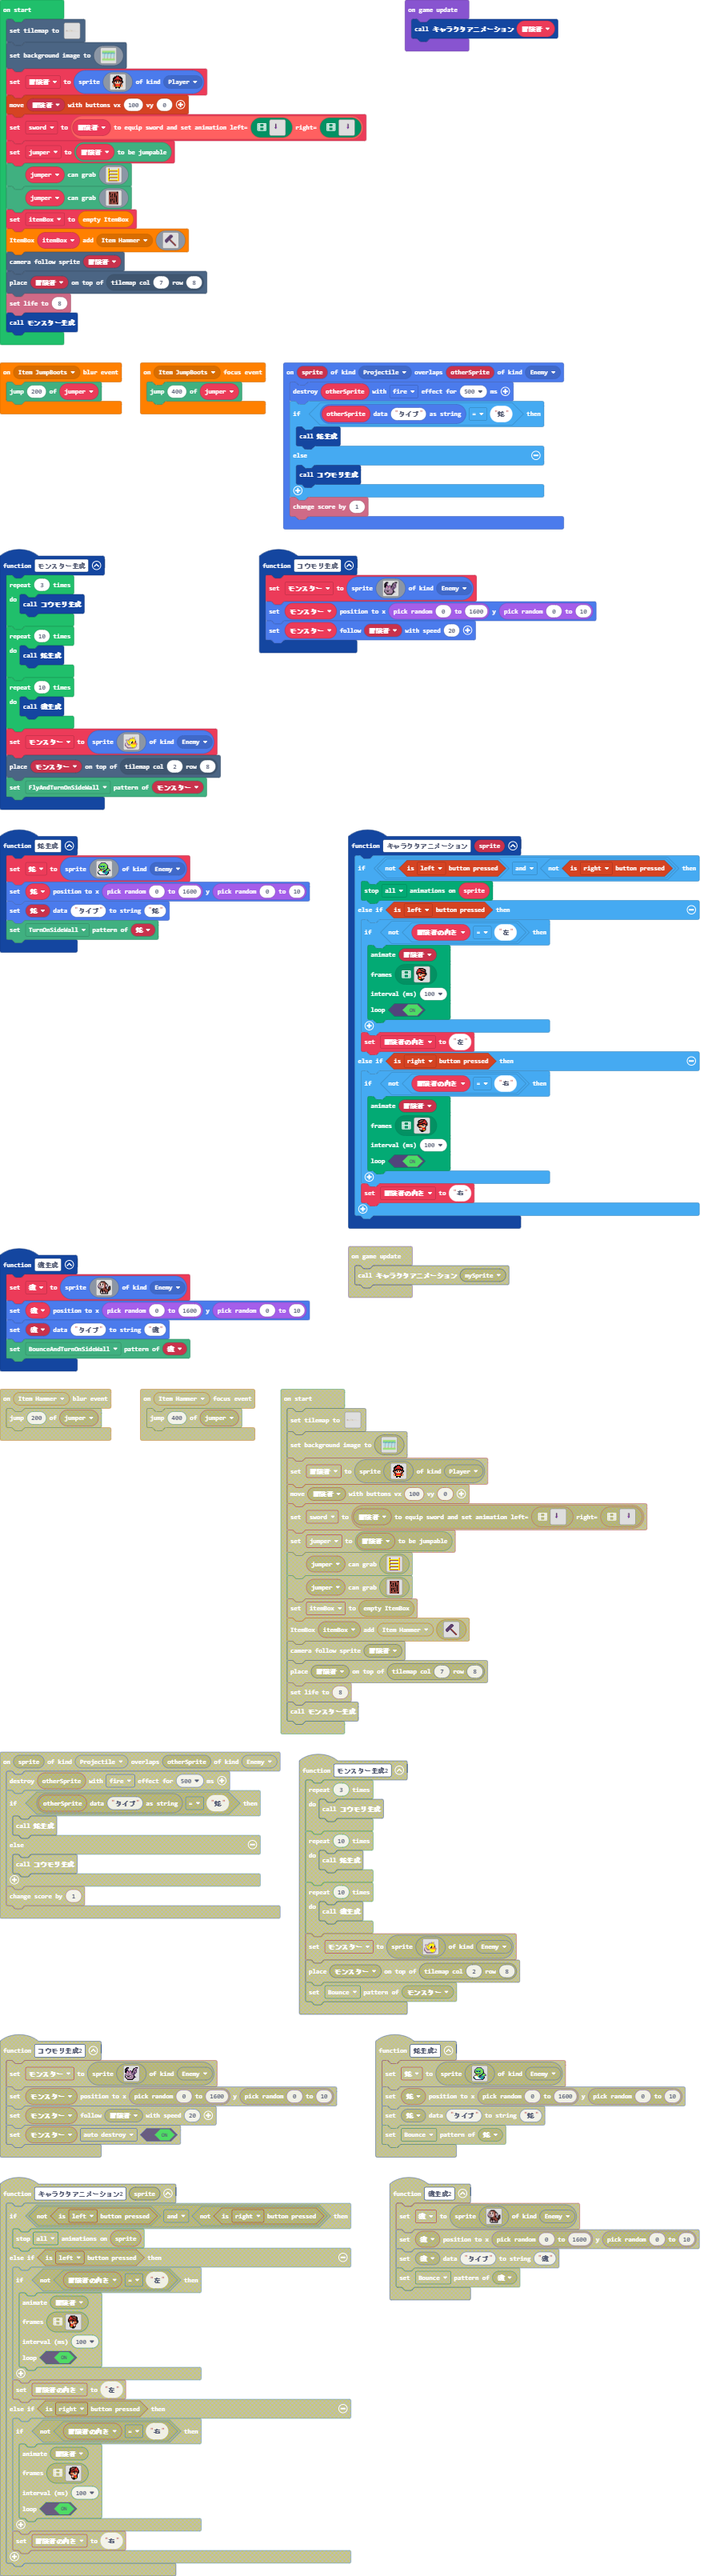
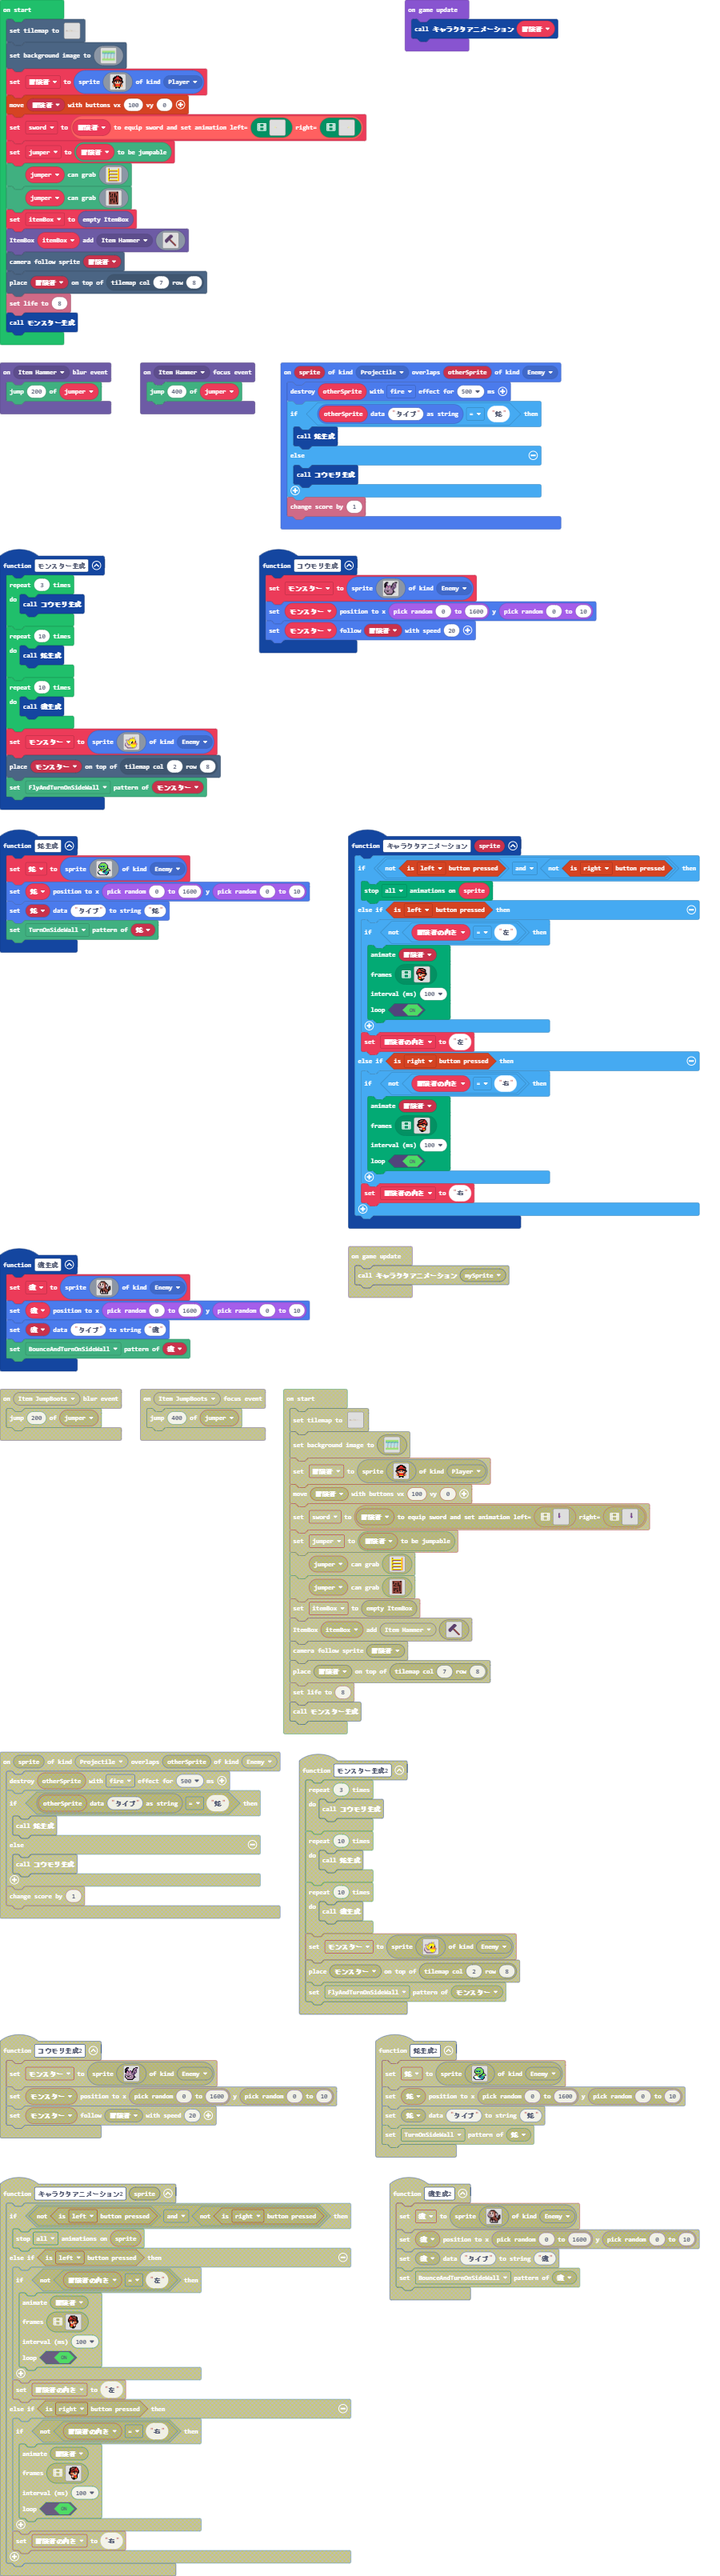
Update pxt.json, main.blocks, main.ts, tilemap.g.jres, tilemap.g.ts, images.g.jres, images.g.ts, weapons.ts

diff --git a/images.g.ts b/images.g.ts
@@ -188,6 +188,76 @@ c c c c c d d d e e f c . f e f
 ................................
 ................................
 `];
+            case "whip_right_anim":
+            case "anim3":return [img`
+................................................................................................
+................................................................................................
+................................................................................................
+...........................................................555555555............................
+...........................................................555555555............................
+..................................................................55............................
+..................................................................55............................
+..................................................................55............................
+..................................................................55............................
+....................................................eeeeeee555555555............................
+....................................................eeeeeee555555555............................
+................................................................................................
+................................................................................................
+................................................................................................
+................................................................................................
+................................................................................................
+`, img`
+................................................................................................
+................................................................................................
+................................................................................................
+.....................................................................555555555..................
+.....................................................................555555555..................
+............................................................................55..................
+............................................................................55..................
+............................................................................55..................
+............................................................................55..................
+....................................................eeeeeee5555555555555555555..................
+....................................................eeeeeee5555555555555555555..................
+................................................................................................
+................................................................................................
+................................................................................................
+................................................................................................
+................................................................................................
+`, img`
+................................................................................................
+................................................................................................
+................................................................................................
+..............................................................................555555555.........
+..............................................................................555555555.........
+.....................................................................................55.........
+.....................................................................................55.........
+.....................................................................................55.........
+.....................................................................................55.........
+....................................................eeeeeee5555555555555555555555555555.........
+....................................................eeeeeee5555555555555555555555555555.........
+................................................................................................
+................................................................................................
+................................................................................................
+................................................................................................
+................................................................................................
+`, img`
+................................................................................................
+................................................................................................
+................................................................................................
+................................................................................................
+................................................................................................
+................................................................................................
+................................................................................................
+................................................................................................
+................................................................................................
+....................................................eeeeeee5555555555555555555555555555555555555
+....................................................eeeeeee5555555555555555555555555555555555555
+................................................................................................
+................................................................................................
+................................................................................................
+................................................................................................
+................................................................................................
+`];
             case "sword_left_anim":
             case "anim2":return [img`
 ...........cb...................
@@ -252,6 +322,76 @@ cccccccccaaff...................
 ................................
 ................................
 ................................
+`];
+            case "whip_left_anim":
+            case "anim4":return [img`
+................................................................................................
+................................................................................................
+................................................................................................
+............................555555555...........................................................
+............................555555555...........................................................
+............................55..................................................................
+............................55..................................................................
+............................55..................................................................
+............................55..................................................................
+............................555555555eeeeeee....................................................
+............................555555555eeeeeee....................................................
+................................................................................................
+................................................................................................
+................................................................................................
+................................................................................................
+................................................................................................
+`, img`
+................................................................................................
+................................................................................................
+................................................................................................
+..................555555555.....................................................................
+..................555555555.....................................................................
+..................55............................................................................
+..................55............................................................................
+..................55............................................................................
+..................55............................................................................
+..................5555555555555555555eeeeeee....................................................
+..................5555555555555555555eeeeeee....................................................
+................................................................................................
+................................................................................................
+................................................................................................
+................................................................................................
+................................................................................................
+`, img`
+................................................................................................
+................................................................................................
+................................................................................................
+.........555555555..............................................................................
+.........555555555..............................................................................
+.........55.....................................................................................
+.........55.....................................................................................
+.........55.....................................................................................
+.........55.....................................................................................
+.........5555555555555555555555555555eeeeeee....................................................
+.........5555555555555555555555555555eeeeeee....................................................
+................................................................................................
+................................................................................................
+................................................................................................
+................................................................................................
+................................................................................................
+`, img`
+................................................................................................
+................................................................................................
+................................................................................................
+................................................................................................
+................................................................................................
+................................................................................................
+................................................................................................
+................................................................................................
+................................................................................................
+5555555555555555555555555555555555555eeeeeee....................................................
+5555555555555555555555555555555555555eeeeeee....................................................
+................................................................................................
+................................................................................................
+................................................................................................
+................................................................................................
+................................................................................................
 `];
         }
         return null;

diff --git a/weapons.ts b/weapons.ts
@@ -34,11 +34,34 @@ namespace weapons.sword {
         _sword: Sprite;
         _wielding: boolean;
         _leftAnim: Image[];
+        _leftSpan: number;
         _rightAnim: Image[];
+        _rightSpan: number;
 
         constructor(target: Sprite) {
             this._target = target;
             this._sword = null;
+        }
+
+
+        _isWallAt(col:number, row:number) : boolean {
+            // let loc : tiles.Location = tiles.getTileLocation(x >> 4, y >> 4);
+            // const tm = game.currentScene().tileMap;
+            // return tm ? tm.isObstacle(loc.col, loc.row) : false;
+            const tm = game.currentScene().tileMap;
+            return tm ? tm.isObstacle(col, row) : false;
+        }
+
+        _spanForHitWall(signOfDirection: number, maxSpan: number) : number {
+            let length;
+            // control.assert(false, 0);
+            let col = this._target.x >> 4; 
+            let row = this._target.y >> 4; 
+            for(let span=0; span<maxSpan; span++) {
+                if( this._isWallAt(col + span * signOfDirection, row))
+                    return span;
+            }
+            return maxSpan;
         }
 
         //% block="wield $this(sword) for $direction"
@@ -50,15 +73,27 @@ namespace weapons.sword {
             this._sword = _createEmptySprite_16x16();
             this._sword.setPosition(this._target.x, this._target.y);
 
+            // let col = this._target.x >> 4; 
+            // let row = this._target.y >> 4; 
+            // let n=0;
+            // for(; n<this._rightLength; n++) {
+            //     if( this._isWallAt(col + n, row))
+            //         break;
+            // }
+            // console.log("ken n:" + n);
+            let interval = 90;
+            let span : number = 0;
             switch(direction) {
             case Direction.Left:
-                animation.runImageAnimation(this._sword, this._leftAnim, 100, false);
+                animation.runImageAnimation(this._sword, this._leftAnim, interval, false);
+                span = this._spanForHitWall(-1, this._leftSpan);
                 break;
             case Direction.Right:
-                animation.runImageAnimation(this._sword, this._rightAnim, 100, false);
+                animation.runImageAnimation(this._sword, this._rightAnim, interval, false);
+                span = this._spanForHitWall(1, this._rightSpan);
                 break;
             }
-            timer.after(300, function () {
+            timer.after(span*interval, function () {
                 this._sword.destroy();
                 this._sword = null;
             });
@@ -68,7 +103,9 @@ namespace weapons.sword {
         //% group="Sword"
         setAnimation(leftAnim: Image[], rightAnim: Image[]) {
             this._leftAnim = leftAnim;
+            this._leftSpan = leftAnim[0].width >> 4;
             this._rightAnim = rightAnim;
+            this._rightSpan = rightAnim[0].width >> 4;
         }
 
         _run() {

diff --git a/main.ts b/main.ts
@@ -86,6 +86,9 @@ itembox.util.onEvent(ItemKind.Sword, function () {
         sword.wield(weapons.sword.Direction.Right)
     }
 })
+itembox.util.onFocus(ItemKind.JumpBoots, function () {
+    jumper.setSpeed(400)
+})
 scene.onOverlapTile(SpriteKind.Player, assets.tile`hand_gun`, function (sprite, location) {
     tiles.setTileAt(location, assets.tile`transparency16`)
     itemBox.add(ItemKind.Gun, assets.tile`hand_gun`)
@@ -164,8 +167,8 @@ function コウモリ生成 () {
 controller.B.onEvent(ControllerButtonEvent.Released, function () {
     controller.moveSprite(冒険者, 100, 0)
 })
-itembox.util.onFocus(ItemKind.JumpBoots, function () {
-    jumper.setSpeed(400)
+itembox.util.onBlur(ItemKind.JumpBoots, function () {
+    jumper.setSpeed(200)
 })
 itembox.util.onEvent(ItemKind.Wall, function () {
     if (controller.up.isPressed()) {
@@ -354,9 +357,6 @@ function キャラクタアニメーション (sprite: Sprite) {
         冒険者の向き = "右"
     }
 }
-itembox.util.onBlur(ItemKind.JumpBoots, function () {
-    jumper.setSpeed(200)
-})
 sprites.onOverlap(SpriteKind.Projectile, SpriteKind.Enemy, function (sprite, otherSprite) {
     otherSprite.destroy(effects.fire, 500)
     if (sprites.readDataString(otherSprite, "タイプ") == "蛇") {
@@ -520,7 +520,7 @@ scene.setBackgroundImage(img`
     . . . . . f f . . f f . . . . . 
     `, SpriteKind.Player)
 controller.moveSprite(冒険者, 100, 0)
-sword = weapons.sword.equipSword(冒険者, assets.animation`sword_left_anim`, assets.animation`sword_right_anim`)
+sword = weapons.sword.equipSword(冒険者, assets.animation`whip_left_anim`, assets.animation`whip_right_anim`)
 jumper = jumpable.setToBeJumpable(冒険者)
 jumper.canGrabTile(assets.tile`ハシゴタイル`)
 jumper.canGrabTile(assets.tile`tree1`)

diff --git a/tilemap.g.ts b/tilemap.g.ts
@@ -181,6 +181,25 @@ namespace myTiles {
 . . . . . . . . . . . . . . . . 
 . . . . . . . . . . . . . . . . 
 `, [myTiles.transparency16], TileScale.Sixteen);
+            case "level9":
+            case "level9":return tiles.createTilemap(hex`1000100000000000000000000000000000000000000000000000000000000000000000000000000000000000000000000000000000000000000000000000000000000000000000000000000000000000000000000000000000000000000000000000000000000000000000000000000000000000000000000000000000000000000000000000000000000000000000000000000000000000000000000000000000000000000000000000000000000000000000000000000000000000000000000000000000000000000000000000000000000000000000000000000000000000000000000000000000000000000000000000000000000000000000000000000000000000`, img`
+. . . . . . . . . . . . . . . . 
+. . . . . . . . . . . . . . . . 
+. . . . . . . . . . . . . . . . 
+. . . . . . . . . . . . . . . . 
+. . . . . . . . . . . . . . . . 
+. . . . . . . . . . . . . . . . 
+. . . . . . . . . . . . . . . . 
+. . . . . . . . . . . . . . . . 
+. . . . . . . . . . . . . . . . 
+. . . . . . . . . . . . . . . . 
+. . . . . . . . . . . . . . . . 
+. . . . . . . . . . . . . . . . 
+. . . . . . . . . . . . . . . . 
+. . . . . . . . . . . . . . . . 
+. . . . . . . . . . . . . . . . 
+. . . . . . . . . . . . . . . . 
+`, [myTiles.transparency16], TileScale.Sixteen);
         }
         return null;
     })
